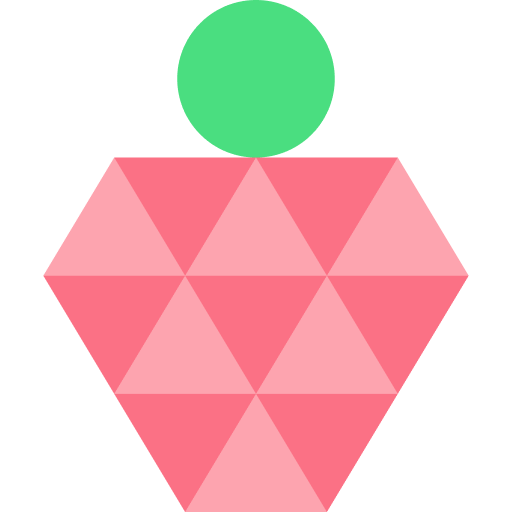
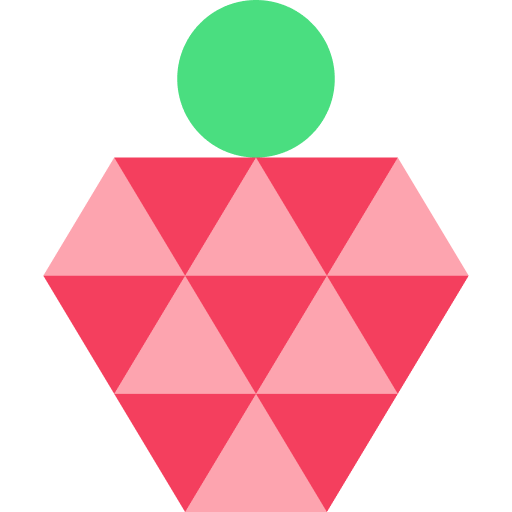
feat: add dark theme

Changed region(s): [[0.0938, 0.2812, 0.9062, 1.0]]

diff --git a/tailwind.config.js b/tailwind.config.js
@@ -100,27 +100,27 @@ module.exports = {
           '--color-primary-800': colors.green['800'],
           '--color-primary-900': colors.green['900'],
 
-          '--color-secondary-50': colors.rose['50'],
-          '--color-secondary-100': colors.rose['100'],
-          '--color-secondary-200': colors.rose['200'],
-          '--color-secondary-300': colors.rose['300'],
-          '--color-secondary-400': colors.rose['400'],
-          '--color-secondary-500': colors.rose['500'],
-          '--color-secondary-600': colors.rose['600'],
-          '--color-secondary-700': colors.rose['700'],
-          '--color-secondary-800': colors.rose['800'],
-          '--color-secondary-900': colors.rose['900'],
+          '--color-secondary-50': colors.red['50'],
+          '--color-secondary-100': colors.red['100'],
+          '--color-secondary-200': colors.red['200'],
+          '--color-secondary-300': colors.red['300'],
+          '--color-secondary-400': colors.red['400'],
+          '--color-secondary-500': colors.red['500'],
+          '--color-secondary-600': colors.red['600'],
+          '--color-secondary-700': colors.red['700'],
+          '--color-secondary-800': colors.red['800'],
+          '--color-secondary-900': colors.red['900'],
 
-          '--color-error-50': colors.rose['50'],
-          '--color-error-100': colors.rose['100'],
-          '--color-error-200': colors.rose['200'],
-          '--color-error-300': colors.rose['300'],
-          '--color-error-400': colors.rose['400'],
-          '--color-error-500': colors.rose['500'],
-          '--color-error-600': colors.rose['600'],
-          '--color-error-700': colors.rose['700'],
-          '--color-error-800': colors.rose['800'],
-          '--color-error-900': colors.rose['900'],
+          '--color-error-50': colors.red['50'],
+          '--color-error-100': colors.red['100'],
+          '--color-error-200': colors.red['200'],
+          '--color-error-300': colors.red['300'],
+          '--color-error-400': colors.red['400'],
+          '--color-error-500': colors.red['500'],
+          '--color-error-600': colors.red['600'],
+          '--color-error-700': colors.red['700'],
+          '--color-error-800': colors.red['800'],
+          '--color-error-900': colors.red['900'],
         },
       });
 

diff --git a/src/components/ui/Toggle.vue b/src/components/ui/Toggle.vue
@@ -1,0 +1,95 @@
+<template>
+  <label
+    :class="[
+      'cursor-pointer',
+      $slots.default ? 'inline-flex' : 'inline-block',
+      {
+        'flex-row-reverse': reversed && $slots.default,
+      },
+    ]"
+  >
+    <div
+      class="rounded-full transition-colors duration-300"
+      :class="[
+        {
+          'flex-none': $slots.default,
+          'w-6 h-3': size === 'sm',
+          'my-1.5': size === 'sm' && $slots.default,
+          'w-10 h-6 p-1': size === 'base',
+          'bg-gray-200': !checked,
+          'bg-primary-200': checked,
+        }
+      ]"
+    >
+      <input
+        v-model="checked"
+        :aria-checked="checked ? 'true' : 'false'"
+        type="checkbox"
+        class="hidden"
+        v-bind="$attrs"
+      >
+
+      <div
+        class="rounded-full shadow transition duration-300 transform"
+        :class="[
+          {
+            'w-3 h-3': size === 'sm',
+            'w-4 h-4': size === 'base',
+            'translate-x-full': checked,
+            'bg-gray-400': !checked,
+            'bg-primary-500': checked,
+          },
+        ]"
+      />
+    </div>
+    <div
+      v-if="$slots.default"
+      :class="[
+        'flex-grow',
+        reversed ? 'pr-2' : 'pl-2',
+      ]"
+    >
+      <slot />
+    </div>
+  </label>
+</template>
+
+<script>
+export default {
+  model: {
+    prop: 'option',
+    event: 'change',
+  },
+  props: {
+    option: {
+      type: Boolean,
+      default: false,
+    },
+
+    reversed: {
+      type: Boolean,
+      default: false,
+    },
+
+    size: {
+      default: 'base',
+      type: String,
+      validator: (value) => [
+        'sm',
+        'base',
+      ].includes(value),
+    },
+  },
+
+  computed: {
+    checked: {
+      get() {
+        return this.option;
+      },
+      set(val) {
+        this.$emit('change', val);
+      },
+    },
+  },
+};
+</script>

diff --git a/src/components/layout/Footer.vue b/src/components/layout/Footer.vue
@@ -10,6 +10,24 @@
             <br>
             {{ $t('footer.rights') }}
           </p>
+
+          <div>
+            <UiToggle
+              v-model="isDarkTheme"
+              size="sm"
+              @change="switchTheme()"
+            >
+              <div class=" overflow-hidden">
+                <UiTransitionTranslateY
+                  mode="out-in"
+                >
+                  <div :key="$colorMode.value">
+                    {{ $t(`footer.theme.${$colorMode.value}`) }}
+                  </div>
+                </UiTransitionTranslateY>
+              </div>
+            </UiToggle>
+          </div>
         </div>
 
         <ul
@@ -61,6 +79,20 @@ import Logo from '~/assets/svg/logo.svg?inline';
 export default {
   components: {
     Logo,
+  },
+
+  data: () => ({
+    isDarkTheme: false,
+  }),
+
+  mounted() {
+    this.isDarkTheme = this.$colorMode.value === 'dark';
+  },
+
+  methods: {
+    switchTheme() {
+      this.$colorMode.preference = this.isDarkTheme ? 'dark' : 'light';
+    },
   },
 };
 </script>

diff --git a/src/components/ui/TransitionTranslateY.vue b/src/components/ui/TransitionTranslateY.vue
@@ -1,0 +1,47 @@
+<template>
+  <component
+    :is="transitionType"
+    :mode="mode"
+    :tag="tag"
+    enter-active-class="transition-transform duration-150"
+    leave-active-class="transition-transform duration-150"
+    enter-class="-translate-y-full"
+    enter-to-class="translate-y-0"
+    leave-class="translate-y-0"
+    leave-to-class="translate-y-full"
+  >
+    <slot />
+  </component>
+</template>
+
+<script>
+export default {
+  props: {
+    group: {
+      default: false,
+      type: Boolean,
+    },
+
+    tag: {
+      default: 'span',
+      type: String,
+    },
+
+    mode: {
+      default: null,
+      type: String,
+      validator: (value) => [
+        null,
+        'in-out',
+        'out-in',
+      ].includes(value),
+    },
+  },
+
+  computed: {
+    transitionType() {
+      return this.group ? 'transition-group' : 'transition';
+    },
+  },
+};
+</script>

diff --git a/src/components/ui/Button.vue b/src/components/ui/Button.vue
@@ -2,8 +2,8 @@
   <component
     :is="tag"
     :class="[
-      `bg-primary-300 inline-block shadow-lg focus:ring-1 focus:ring-primary-500 focus:outline-none rounded-sm hover:bg-primary-400 font-normal
-transition-colors active:bg-primary-300 relative dark:text-gray-50`,
+      `!text-gray-900 bg-primary-300 inline-block shadow-lg focus:ring-1 focus:ring-primary-500 focus:outline-none rounded-sm hover:bg-primary-400 font-normal
+transition-colors active:bg-primary-300 relative dark:!text-gray-50`,
       {
         // loading
         'cursor-wait': loading,

diff --git a/nuxt.config.js b/nuxt.config.js
@@ -124,6 +124,7 @@ export default {
 
   // Modules for dev and build (recommended): https://go.nuxtjs.dev/config-modules
   buildModules: [
+    '@nuxtjs/color-mode',
     // https://go.nuxtjs.dev/eslint
     '@nuxtjs/eslint-module',
     // https://go.nuxtjs.dev/stylelint
@@ -132,6 +133,10 @@ export default {
     '@nuxtjs/tailwindcss',
     '@nuxtjs/svg',
   ],
+
+  colorMode: {
+    classSuffix: '',
+  },
 
   tailwindcss: {
     configPath: '../tailwind.config.js',

diff --git a/src/pages/crowdsale.vue b/src/pages/crowdsale.vue
@@ -16,7 +16,7 @@
         </div>
 
         <div>
-          <div class="p-6 sm:p-16 bg-secondary-300 dark:bg-secondary-500">
+          <div class="p-6 sm:p-16 dark:text-gray-50 bg-secondary-400">
             <div class="max-w-2xl">
               <UiHeading
                 class="pb-10 lg:pb-48"

diff --git a/src/locales/lang/en.js b/src/locales/lang/en.js
@@ -152,6 +152,10 @@ module.exports = {
   footer: {
     license: 'Non-exclusive community {year}, @:name',
     rights: 'All rights publicly available.',
+    theme: {
+      dark: 'Dark',
+      light: 'Light',
+    },
   },
 
   // index
